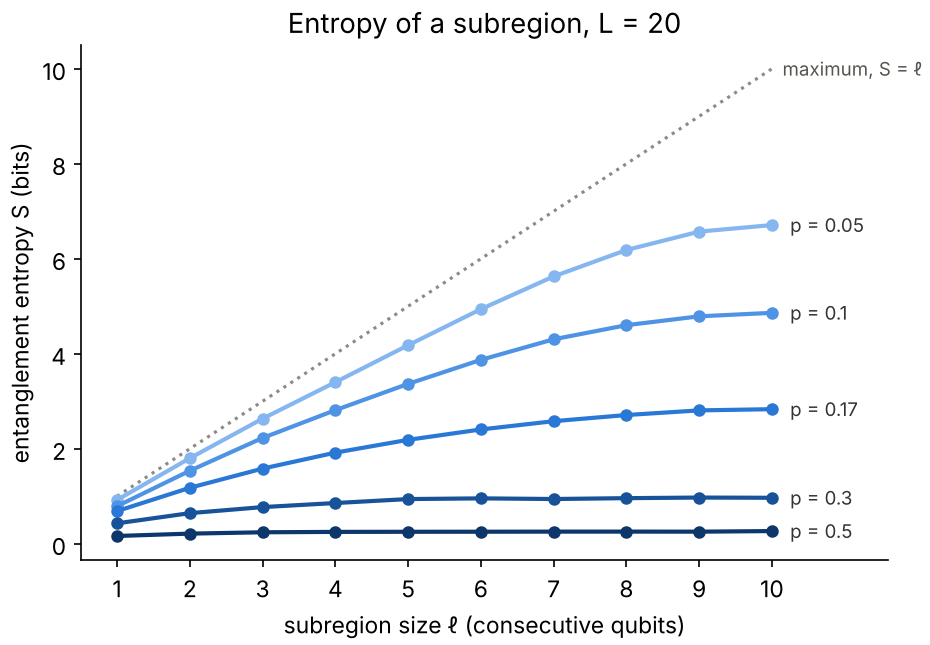
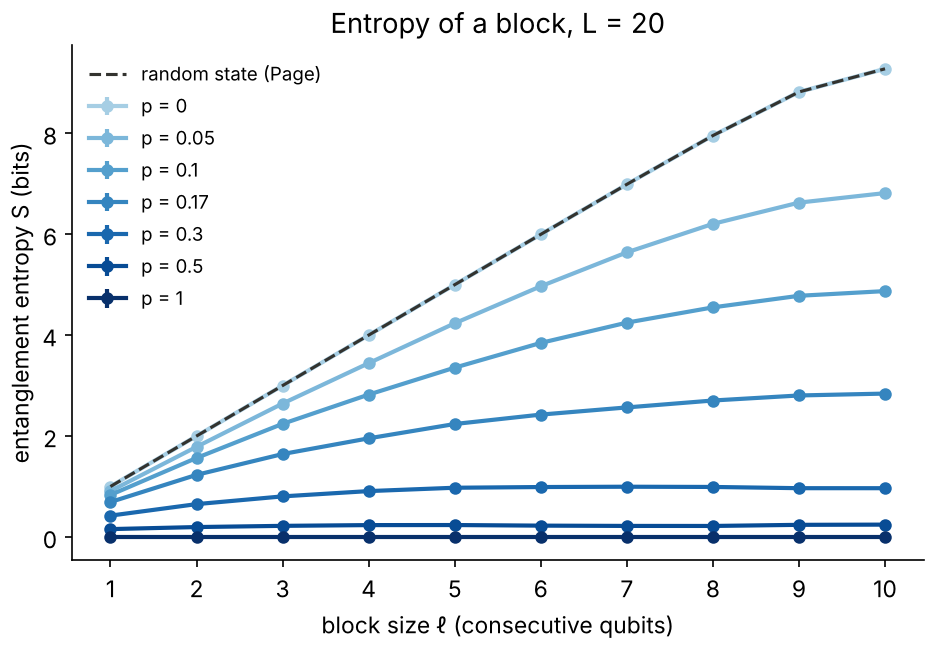
Block entropy with p = 0 and p = 1; commit only the small EWG summary
subregion.py adds p = 0 and p = 1 (exactly zero); plot.py adds the
random-state (Page) curve. ewg_run.py now writes a large records file
that stays out of git; ewg_plot.py saves the averaged graph as a small
summary (results/ewg_graph_L18_p0.17.npz) and plots from it.

Claude-Session: https://claude.ai/code/session_01HKCg1ZuMBem4opJak6JFeg

diff --git a/scripts/ewg_plot.py b/scripts/ewg_plot.py
@@ -1,13 +1,18 @@
-"""Plot the negativity-weighted graph from results/ewg_L18_p0.17.npz.
+"""Summarize and plot the negativity-weighted graph.
+
+Reads the trajectory records from scripts/ewg_run.py (large, not committed), saves the small
+summary results/ewg_graph_L18_p0.17.npz (committed), and plots it to results/ewg_L18_p0.17.png.
+Without a records file it plots the existing summary.
 
 Colour: white at the bare measurement rate p, blue below, red above (as in arXiv:2602.04969, Fig. 6).
 Each trajectory is also counted mirrored (A and B swapped), which flips the brickwork parity, so
 circuits ending on even and odd layers enter half-half (see mipt_sim.ewg.mirror_sites).
 Time runs upward, so the final state (where A and B are evaluated) is the top row. Only the last
 `layers` time steps are shown: earlier ones sit at p within noise.
-Usage: python scripts/ewg_plot.py [in.npz] [out.png] [layers]
+Usage: python scripts/ewg_plot.py [records.npz]
 """
 
+import os
 import sys
 
 import matplotlib.pyplot as plt
@@ -15,14 +20,17 @@ import numpy as np
 from matplotlib.colors import TwoSlopeNorm
 from matplotlib.ticker import MaxNLocator
 
-from mipt_sim.ewg import symmetrized_graph
+from mipt_sim.ewg import summarize
+
+RECORDS = "results/ewg_records_L18_p0.17.npz"
+SUMMARY = "results/ewg_graph_L18_p0.17.npz"
 
 
-def plot_ewg(d, layers=20, ax=None):
-    rec, p, L = d["records"], float(d["p"]), int(d["L"])
-    A, B = list(d["A"]), list(d["B"])
-    g = symmetrized_graph(rec, d["negativity"], A, B)[-layers:]  # even/odd final layers half-half
-    t0 = len(rec[0]) - layers  # time steps shown: t0 + 1 ... depth
+def plot_ewg(s, layers=20, ax=None):
+    p, L = float(s["p"]), int(s["L"])
+    A, B = list(s["A"]), list(s["B"])
+    g = s["graph"][-layers:]
+    t0 = len(s["graph"]) - layers  # time steps shown: t0 + 1 ... depth
     shift = (L - 1 - A[0] - B[-1]) // 2  # roll the ring so A and B sit in the middle
     cols = (np.arange(L) - shift) % L
     if ax is None:
@@ -57,9 +65,8 @@ def plot_ewg(d, layers=20, ax=None):
             ax.plot([x + 1], [top], marker="v", color="#33332f", ms=7, clip_on=False)
     ax.set_xlim(0.5, L + 0.5)
     ax.set_ylim(t0 + 0.5, top)
-    n_neg = int((d["negativity"] > 1e-10).sum())
     ax.set_title(
-        f"Negativity-weighted graph, L = {L}, p = {p:g}\n({n_neg} of {len(rec)} trajectories entangle A and B)",
+        f"Negativity-weighted graph, L = {L}, p = {p:g}\n({int(s['n_entangled'])} of {int(s['n'])} trajectories entangle A and B)",
         pad=22,
         fontsize=11,
     )
@@ -68,9 +75,12 @@ def plot_ewg(d, layers=20, ax=None):
 
 
 if __name__ == "__main__":
-    src = sys.argv[1] if len(sys.argv) > 1 else "results/ewg_L18_p0.17.npz"
-    out = sys.argv[2] if len(sys.argv) > 2 else "results/ewg_L18_p0.17.png"
-    layers = int(sys.argv[3]) if len(sys.argv) > 3 else 20
-    ax = plot_ewg(np.load(src), layers)
-    ax.figure.savefig(out, dpi=150)
-    print("wrote", out)
+    src = sys.argv[1] if len(sys.argv) > 1 else RECORDS
+    if os.path.exists(src):
+        d = np.load(src)
+        A, B = list(d["A"]), list(d["B"])
+        np.savez_compressed(SUMMARY, **summarize(d["records"], d["negativity"], int(d["L"]), float(d["p"]), A, B))
+        print("wrote", SUMMARY)
+    ax = plot_ewg(np.load(SUMMARY))
+    ax.figure.savefig("results/ewg_L18_p0.17.png", dpi=150)
+    print("wrote results/ewg_L18_p0.17.png")

diff --git a/scripts/plot.py b/scripts/plot.py
@@ -7,9 +7,13 @@ import json
 import sys
 
 import matplotlib.pyplot as plt
+import numpy as np
 
-# one-hue ordinal ramp (light = few measurements, dark = many)
-BLUES = ["#9cc3f2", "#6aa5ea", "#3f86dd", "#2368c0", "#174f94", "#0d366b"]
+
+def page(l, n):  # average entropy (bits) of l qubits in a uniformly random state of n qubits
+    m, k = 2**l, 2 ** (n - l)
+    return (sum(1 / j for j in range(k + 1, m * k + 1)) - (m - 1) / (2 * k)) / np.log(2)
+
 
 L = int(sys.argv[1]) if len(sys.argv) > 1 else 20
 with open(f"results/subregion_L{L}.json") as f:
@@ -18,17 +22,16 @@ ell = d["ell"]
 
 plt.rcParams.update({"font.size": 11, "axes.spines.top": False, "axes.spines.right": False})
 fig, ax = plt.subplots(figsize=(6.2, 4.3), constrained_layout=True)
-ax.plot(ell, ell, ls=":", lw=1.5, color="#8a8a86")
-ax.text(ell[-1], ell[-1], "  maximum, S = ℓ", va="center", color="#55554f", fontsize=9)
-for p, m, e, c in zip(d["p"], d["mean"], d["sem"], BLUES):
-    ax.errorbar(ell, m, e, color=c, lw=2, marker="o", ms=5, capsize=0)
-    ax.text(ell[-1] + 0.25, m[-1], f"p = {p:g}", va="center", color="#33332f", fontsize=9)
+ax.plot(ell, [page(l, L) for l in ell], ls="--", color="#33332f", zorder=3, label="random state (Page)")
+colors = plt.cm.Blues(np.linspace(0.35, 1, len(d["p"])))  # light = few measurements, dark = many
+for p, m, e, color in zip(d["p"], d["mean"], d["sem"], colors):
+    ax.errorbar(ell, m, e, color=color, lw=2, marker="o", ms=5, capsize=0, label=f"p = {p:g}")
 ax.set(
-    xlabel="subregion size ℓ (consecutive qubits)",
+    xlabel="block size ℓ (consecutive qubits)",
     ylabel="entanglement entropy S (bits)",
-    title=f"Entropy of a subregion, L = {L}",
-    xlim=(0.5, ell[-1] + 1.6),
+    title=f"Entropy of a block, L = {L}",
 )
 ax.set_xticks(ell)
+ax.legend(frameon=False, fontsize=9)
 fig.savefig(f"results/entropy_vs_ell_L{L}.png", dpi=150)
 print(f"wrote results/entropy_vs_ell_L{L}.png")

diff --git a/scripts/ewg_run.py b/scripts/ewg_run.py
@@ -5,6 +5,7 @@ Trajectory k uses seed k, so disjoint seed ranges can run on different machines 
 merged with scripts/ewg_merge.py; any trajectory can be replayed from its seed.
 
 Usage: python scripts/ewg_run.py [count] [out.npz] [first_seed] [workers]
+The records file is large and stays out of git; scripts/ewg_plot.py turns it into a small summary.
 Saves after every chunk of 1000, so a partial run is usable.
 """
 
@@ -30,7 +31,7 @@ def one(seed):
 
 if __name__ == "__main__":
     total = int(sys.argv[1]) if len(sys.argv) > 1 else 20000
-    out = sys.argv[2] if len(sys.argv) > 2 else f"results/ewg_L{L}_p{P}.npz"
+    out = sys.argv[2] if len(sys.argv) > 2 else f"results/ewg_records_L{L}_p{P}.npz"
     first = int(sys.argv[3]) if len(sys.argv) > 3 else 0
     workers = int(sys.argv[4]) if len(sys.argv) > 4 else None
     os.makedirs(os.path.dirname(out) or ".", exist_ok=True)

diff --git a/src/mipt_sim/ewg.py b/src/mipt_sim/ewg.py
@@ -80,3 +80,16 @@ def symmetrized_graph(records: np.ndarray, weights: np.ndarray, a, b) -> np.ndar
     """Weighted graph over the samples and their mirror images (see mirror_sites)."""
     g = weighted_graph(records, weights)
     return (g + g[:, mirror_sites(g.shape[1], a, b)]) / 2
+
+
+def summarize(records: np.ndarray, weights: np.ndarray, n: int, p: float, a, b) -> dict:
+    """The small result worth keeping: the symmetrized graph, the parameters and the sample counts."""
+    return {
+        "graph": symmetrized_graph(records, weights, a, b),
+        "L": n,
+        "p": p,
+        "A": list(a),
+        "B": list(b),
+        "n": len(weights),
+        "n_entangled": int((weights > 1e-10).sum()),
+    }

diff --git a/scripts/subregion.py b/scripts/subregion.py
@@ -16,7 +16,7 @@ import numpy as np
 
 from mipt_sim import interval_entropy, run_trajectory
 
-PS = [0.0, 0.05, 0.1, 0.17, 0.3, 0.5]
+PS = [0.0, 0.05, 0.1, 0.17, 0.3, 0.5, 1.0]
 
 
 def one(args):

diff --git a/README.md b/README.md
@@ -24,7 +24,7 @@ A guided tour is in [`examples/mipt_tour.ipynb`](examples/mipt_tour.ipynb).
 
 ![entropy vs subregion size](results/entropy_vs_ell_L20.png)
 
-The entanglement entropy S of ℓ consecutive qubits in a ring of L = 20, averaged over trajectories. At low p, S grows in proportion to ℓ (volume law). At high p it saturates after a few qubits (area law). In between, near p_c ≈ 0.17, it grows slowly, like log ℓ.
+The entanglement entropy S of a block of ℓ consecutive qubits in a ring of L = 20, averaged over trajectories. At p = 0 it follows the curve of a random state, close to the maximum ℓ. At p = 1 it is zero. In between, at low p, S still grows in proportion to ℓ (volume law); at high p it saturates after a few qubits (area law); near p_c ≈ 0.17 it grows slowly, like log ℓ.
 
 ## Where measurements create entanglement
 
@@ -48,8 +48,8 @@ pip install -e ".[dev]"        # the simulator, plus PennyLane, pytest, ruff and
 pytest -q
 python scripts/subregion.py    # S versus subregion size at L = 20 -> results/subregion_L20.json
 python scripts/plot.py         # -> results/entropy_vs_ell_L20.png
-python scripts/ewg_run.py 20000   # sample trajectories -> results/ewg_L18_p0.17.npz
-python scripts/ewg_plot.py        # -> results/ewg_L18_p0.17.png
+python scripts/ewg_run.py 20000   # sample trajectories -> results/ewg_records_L18_p0.17.npz (large, not committed)
+python scripts/ewg_plot.py        # -> results/ewg_graph_L18_p0.17.npz (small summary) and results/ewg_L18_p0.17.png
 ```
 
 ```python
